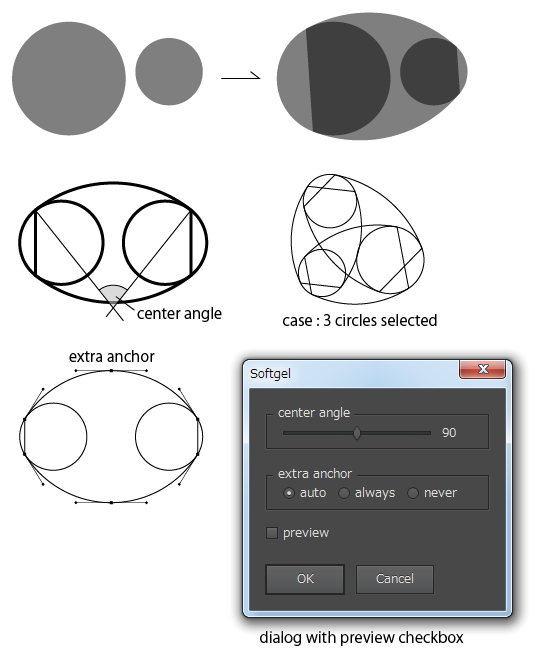
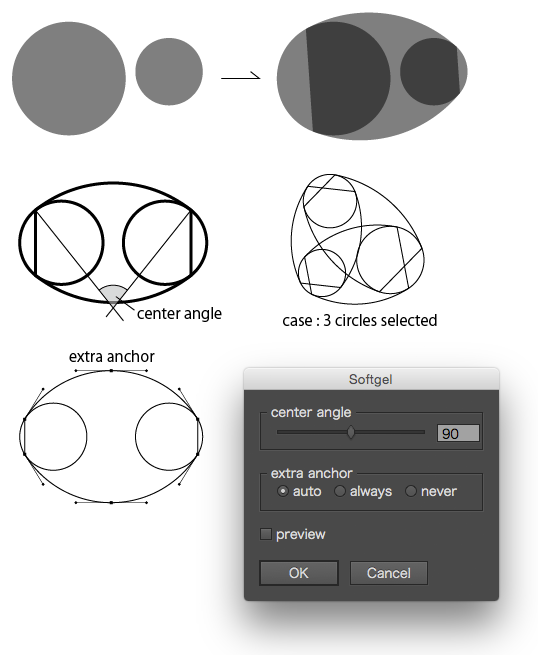
add edittext control to softgel.jsx

Changed region(s): [[0.4164, 0.5191, 0.9814, 1.0]]

diff --git a/softgel.jsx b/softgel.jsx
@@ -1,6 +1,6 @@
 // softgel
 
-// When you want to create softgel capsule like shapes, this script may
+// When you want to create a softgel capsule like shape, this script may
 // help you.  
 
 // USAGE : Draw circles and select them, then run this script.  Adjust
@@ -10,22 +10,25 @@
 // Note : Combining the shapes using Pathfinder may results several
 // overlapping anchor points on the path.  if it occurs, it may help to
 // solve it to use my another script "Merge Overlapped Anchors.js
-// (http://park12.wakwak.com/~shp/lc/et/en_aics_script.html)
+// (http://shspage.com/aijs/en/#merge)
 // This script merges overlapping anchors on the path.
 
-// test env: Adobe Illustrator CC (Win/Mac), CS3 (Win)
+// test env: Adobe Illustrator CC (Win/Mac)
 
-// Copyright(c) 2013 Hiroyuki Sato
+// Copyright(c) 2013-2015 Hiroyuki Sato
 // https://github.com/shspage
 // This script is distributed under the MIT License.
 // See the LICENSE file for details.
 
-// Mon, 10 Mar 2014 06:27:42 +0900
+// Tue, 07 Jul 2015 20:17:27 +0900
 
 main();
 function main(){
     var conf = {
         center_angle : 90,
+        slider_defaultvalue : 90,
+        slider_minvalue : 1,
+        slider_maxvalue : 180,
         extra_anchor : "auto",
         errmsg : ""
       }
@@ -77,8 +80,11 @@ function main(){
 
     win.anglePanel = win.add("panel", [15, 15, 240, 61], "center angle");
     win.anglePanel.orientation = "row";
-    win.anglePanel.angleSlider = win.anglePanel.add("slider", [15, 10, 165, 27], 90, 1, 180);
-    win.anglePanel.valueText = win.anglePanel.add("statictext", [175, 12, 210, 25], 90);
+    win.anglePanel.angleSlider = win.anglePanel.add("slider", [15, 10, 165, 27],
+        conf.slider_defaultvalue, conf.slider_minvalue, conf.slider_maxvalue);
+    win.anglePanel.txtBox = win.anglePanel.add("edittext", [175, 14, 220, 34], 90);
+    win.anglePanel.txtBox.justify = "right";
+    win.anglePanel.txtBox.helpTip = "hit TAB to set the input value temporarily";
     
     win.radioPanel = win.add("panel", [15, 76, 215, 122], "extra anchor");
     win.radioPanel.orientation = "row";
@@ -95,7 +101,7 @@ function main(){
     win.btnGroup.cancelBtn = win.btnGroup.add("button", undefined, "Cancel");
 
     var getValues = function(){
-        conf.center_angle = win.anglePanel.valueText.text;
+        conf.center_angle = win.anglePanel.txtBox.text;
         
         if(win.radioPanel.alwaysRb.value){
             conf.extra_anchor = "always";
@@ -116,13 +122,29 @@ function main(){
             win.enabled = true;
         }
     }
-    
+
+    win.anglePanel.txtBox.onChange = function(){
+      var v = parseFloat(this.text);
+      
+      if(isNaN(v)){
+        v = conf.slider_defaultvalue;
+      } else if(v < conf.slider_minvalue){
+        v = conf.slider_minvalue;
+      } else if(v > conf.slider_maxvalue){
+        v = conf.slider_maxvalue;
+      }
+       this.text = v;
+       
+      win.anglePanel.angleSlider.value = v;
+      processPreview( true );
+    }
+  
     win.anglePanel.angleSlider.onChanging = function(){
-        win.anglePanel.valueText.text = Math.round(this.value);
+        win.anglePanel.txtBox.text = Math.round(this.value);
     }
     
     win.anglePanel.angleSlider.onChange = function(){
-        win.anglePanel.valueText.text = Math.round(this.value);
+        win.anglePanel.txtBox.text = Math.round(this.value);
         processPreview( true );
     }
     
